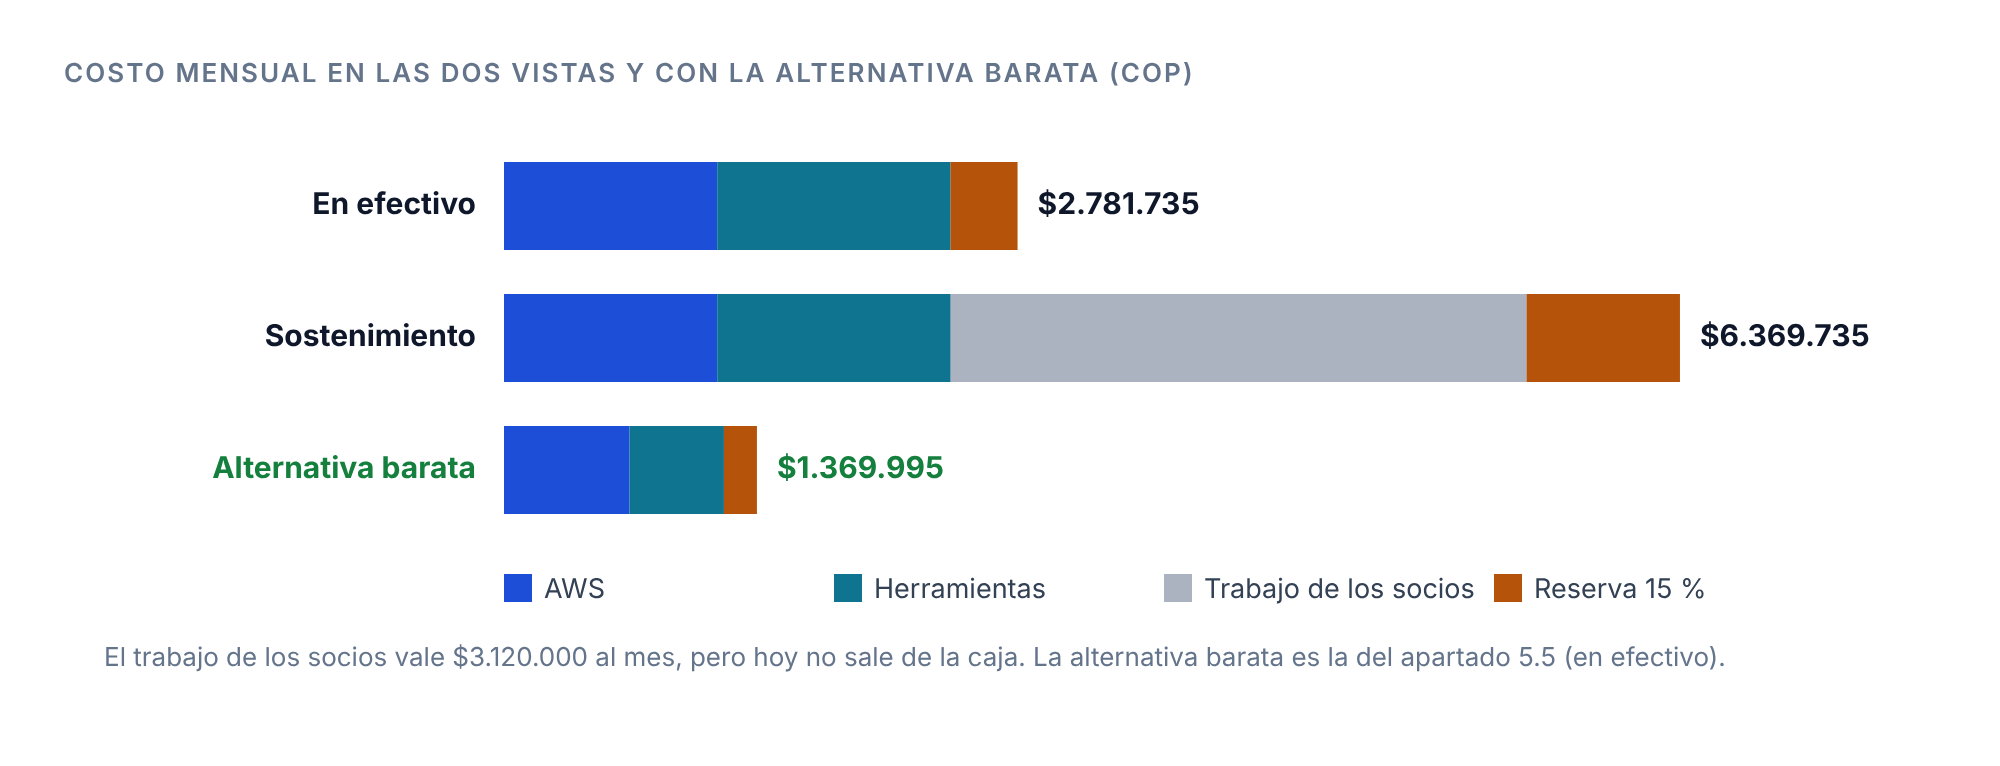
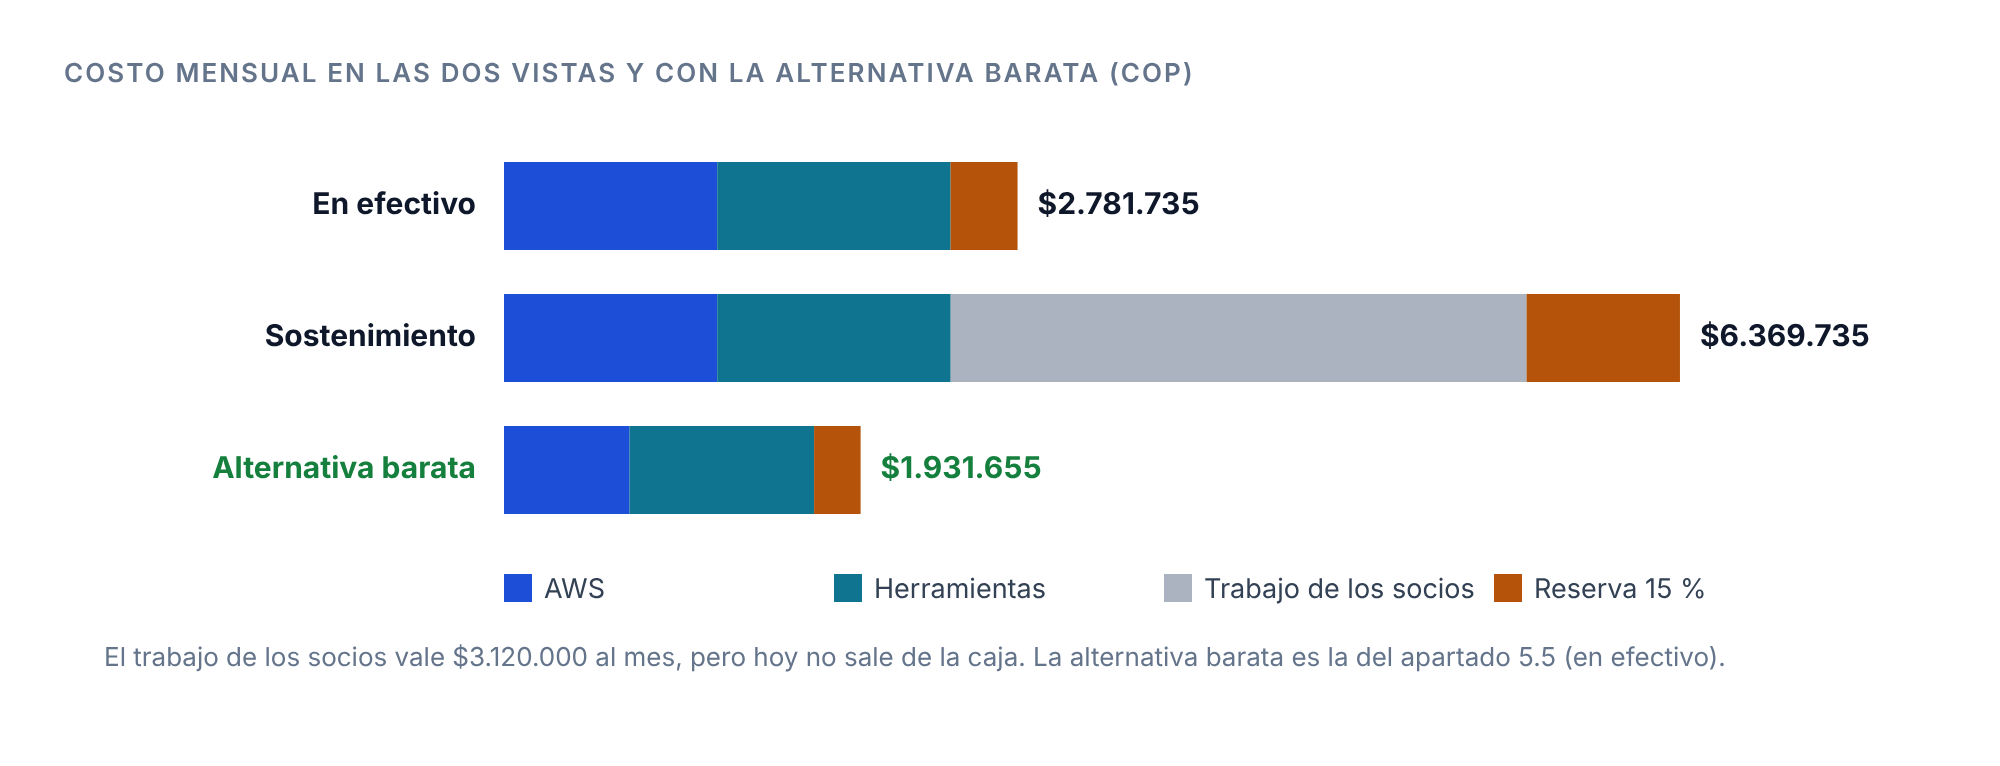
Roadmap: Figma Enterprise se mantiene; alternativa barata a $1,9 M; cálculo de WhatsApp por casa
Claude-Session: https://claude.ai/code/session_012DQwrcRYK5fH9TqeLrKqZU

Changed region(s): [[0.341, 0.5405, 0.527, 0.6906]]

diff --git a/eafit/2026-11-roadmap-estrategia/entrega/figuras/fuente-figuras.html b/eafit/2026-11-roadmap-estrategia/entrega/figuras/fuente-figuras.html
@@ -325,7 +325,7 @@ tx(s,0,310,'La forma de cobrar el margen depende del contrato con la pasarela (i
 
 // 14 costo mensual
 (()=>{const s=document.getElementById('sv14');const L=220,W=600,max=6.5e6;const parts=[['AWS',C.ac],['Herramientas',C.ac2],['Trabajo de los socios',C.mut],['Reserva 15 %',C.wa]];
-const rows=[['En efectivo',[1155000,1263900,0,362835],2781735],['Sostenimiento',[1155000,1263900,3120000,830835],6369735],['Alternativa barata',[679800,511500,0,178695],1369995]];
+const rows=[['En efectivo',[1155000,1263900,0,362835],2781735],['Sostenimiento',[1155000,1263900,3120000,830835],6369735],['Alternativa barata',[679800,999900,0,251955],1931655]];
 rows.forEach((r,i)=>{const y=20+i*66;tx(s,L-14,y+22,r[0],{a:'end',b:'middle',fw:700,fill:i==2?C.ok:C.ink});let x=L;r[1].forEach((v,j)=>{const w=v/max*W;if(w>0){el(s,'rect',{x,y,width:w,height:44,fill:parts[j][1],opacity:j==2?.55:1});}x+=w});tx(s,x+10,y+22,'$'+fmt(r[2]),{b:'middle',fw:700,fill:i==2?C.ok:C.ink})});
 parts.forEach((p,j)=>{const x=L+j*165;el(s,'rect',{x,y:226,width:14,height:14,fill:p[1],opacity:j==2?.55:1});tx(s,x+20,238,p[0],{fs:13.5})});
 tx(s,20,272,'El trabajo de los socios vale $3.120.000 al mes, pero hoy no sale de la caja. La alternativa barata es la del apartado 5.5 (en efectivo).',{fs:13,fill:C.mut});})();

diff --git a/eafit/2026-11-roadmap-estrategia/entrega/KINO_Roadmap-estrategia-presupuesto.md b/eafit/2026-11-roadmap-estrategia/entrega/KINO_Roadmap-estrategia-presupuesto.md
@@ -20,7 +20,7 @@ KINO es una plataforma de control de acceso para conjuntos cerrados. Hoy opera e
 | ¿Cómo cobramos? | Pago fijo por conjunto + cobro por casa construida + implementación única + comisión por cada pago de la cuota en la app, desde el primer conjunto |
 | ¿Cuándo está lista la app? | En diciembre de 2026, completa y con pagos. En enero de 2027, el 80 % de las casas de Villas y Refugio la usa |
 | ¿Cuánto cobramos? | $1.200.000 al mes por conjunto + $10.000 por casa + $2.000 por pago: entre el 2,2 % y el 4,5 % de la cuota de administración |
-| ¿Cuánto cuesta y cuándo se sostiene? | $2,8 millones al mes en efectivo ($1,4 millones con la alternativa más barata). Villas, Refugio y Sagrada lo cubren desde febrero de 2027. Escenario base a diciembre de 2027: +$210 millones en efectivo |
+| ¿Cuánto cuesta y cuándo se sostiene? | $2,8 millones al mes en efectivo ($1,9 millones con la alternativa más barata). Villas, Refugio y Sagrada lo cubren desde febrero de 2027. Escenario base a diciembre de 2027: +$210 millones en efectivo |
 
 ![Figura 1. Mapa del documento. Cada capítulo responde una pregunta.](figuras/f01.png){width=100%}
 
@@ -322,7 +322,7 @@ Fechas fijadas por el equipo el 9 de noviembre de 2026 [9]. La fecha de H4 es un
 
 # 5. Presupuesto
 
-> **En una frase.** KINO cuesta $2,8 millones al mes en efectivo. Villas, Refugio y Sagrada cubren ese costo desde febrero de 2027. Con los 5 conjuntos nuevos, el escenario base cierra diciembre de 2027 con +$210 millones en efectivo. Una alternativa más barata baja el costo a $1,4 millones al mes.
+> **En una frase.** KINO cuesta $2,8 millones al mes en efectivo. Villas, Refugio y Sagrada cubren ese costo desde febrero de 2027. Con los 5 conjuntos nuevos, el escenario base cierra diciembre de 2027 con +$210 millones en efectivo. Una alternativa más barata baja el costo a $1,9 millones al mes.
 
 Horizonte: noviembre de 2026 a diciembre de 2027 (14 meses). Fuente de dinero: capital propio de los socios [9].
 
@@ -383,7 +383,7 @@ Fuente: [8]. Incluye producción y pruebas. El costo de AWS con 8 conjuntos no e
 
 **Figma Enterprise** se paga por año: USD 2.160 de una vez, unos $7,1 millones. La tabla lo muestra como cuota mensual.
 
-**WhatsApp (inferido).** 1.570 casas × 2 ingresos a la app al mes = 3.140 mensajes. A USD 0,001 por mensaje, son unos USD 3 al mes. El residente comparte el KEY desde su propio WhatsApp; ese envío no le cuesta a KINO.
+**WhatsApp (inferido).** 1.570 casas × 2 ingresos a la app al mes = 3.140 mensajes. A USD 0,001 por mensaje de autenticación (Colombia), son unos USD 3 al mes [18]. Por casa: 2 mensajes × USD 0,001 × $3.300 = $6,6 al mes. El residente comparte el KEY desde su propio WhatsApp; ese envío no le cuesta a KINO.
 
 **El trabajo es una estimación.** Las horas y las tarifas del soporte, el mantenimiento y la coordinación son costos supuestos, no salarios ni contratos [8]. Pueden variar con la operación real.
 
@@ -418,22 +418,22 @@ KINO no asume la tarifa de la pasarela: la paga el conjunto o el residente. Para
 
 ## 5.5 Alternativa más barata
 
-Cinco cambios bajan el costo en efectivo a la mitad sin quitarle al proyecto nada que use hoy (inferido). Precios de pago anual [14] [15].
+Cuatro cambios bajan el costo en efectivo un 31 % (inferido). Precios de pago anual [14]. Figma Enterprise se mantiene: el equipo lo necesita [9].
 
 | Rubro | Hoy (USD al mes) | Alternativa (USD al mes) | Qué se pierde |
 |---|---|---|---|
 | Claude Team | 150, pago mensual | 120, pago anual (100 + 20) | Compromiso de 12 meses |
-| Figma | 180, Enterprise, 2 puestos Full | 32, Professional, 2 puestos Full (16 cada uno) | Inicio de sesión único, administración avanzada y las variables de diseño por la API. El equipo eligió Enterprise para conectar Figma con el repositorio por la API [9]: este cambio pierde esa conexión |
+| Figma Enterprise | 180 | 180: se mantiene | Nada |
 | Grok | 30 | 0: Nicolás trabaja con su puesto de Claude Team | El flujo de Nicolás con Grok. Lo decide Nicolás |
 | Soporte extendido de MySQL en AWS | 144 | 0: actualizar la base de datos a una versión con soporte estándar | Una migración con pruebas, a cargo de Alejandro |
 | Hospedaje de la página web | 20 | 0: plan gratuito para sitios estáticos (inferido: confirmar que la página es estática) | Nada, si la página es estática |
-| **Total con AWS y WhatsApp** | **733** | **361** | |
+| **Total con AWS y WhatsApp** | **733** | **509** | |
 
 | Vista | Hoy | Alternativa | Ahorro al mes | Ahorro en 14 meses |
 |---|---|---|---|---|
-| En efectivo, con reserva | 2.781.735 | 1.369.995 | 1.411.740 (51 %) | 19.764.360 |
+| En efectivo, con reserva | 2.781.735 | 1.931.655 | 850.080 (31 %) | 11.901.120 |
 
-**Recomendación.** Aplicar los cambios de hospedaje, MySQL y pago anual de Claude: no quitan nada que el equipo use. Los de Grok y Figma tienen un costo de uso. El de Grok depende de Nicolás; sin ese cambio, el costo en efectivo queda en $1.483.845 al mes. El de Figma quita la conexión con el repositorio; sin ese cambio, el ahorro baja de USD 372 a USD 224 al mes.
+**Recomendación.** Aplicar los cambios de hospedaje, MySQL y pago anual de Claude: no quitan nada que el equipo use. El de Grok depende de Nicolás; sin ese cambio, el costo en efectivo queda en $2.045.505 al mes.
 
 ## 5.6 Costo total a diciembre de 2027
 
@@ -441,7 +441,7 @@ Cinco cambios bajan el costo en efectivo a la mitad sin quitarle al proyecto nad
 |---|---|---|---|---|
 | En efectivo | 38.944.290 | 1.200.000 | 0 | **40.144.290** |
 | Sostenimiento, escenario base | 89.176.290 | 1.200.000 | 7 × 3.100.000 (estimación) | **112.076.290** |
-| En efectivo, con la alternativa | 19.179.930 | 1.200.000 | 0 | **20.379.930** |
+| En efectivo, con la alternativa | 27.043.170 | 1.200.000 | 0 | **28.243.170** |
 
 ## 5.7 Ingresos
 
@@ -476,7 +476,7 @@ Los tres escenarios incluyen a Villas, Refugio y Sagrada desde febrero de 2027 y
 
 El porcentaje es el margen: resultado ÷ ingresos.
 
-Sin impuestos. Con la alternativa más barata, el escenario base sube a +$229,6 millones en efectivo.
+Sin impuestos. Con la alternativa más barata, el escenario base sube a +$221,7 millones en efectivo.
 
 **Cuánto capital ponen los socios.** La figura 19 muestra el acumulado del escenario base mes a mes. La caja toca su punto más bajo en noviembre de 2026: −$4,0 millones, que pagan los socios con capital propio. Las implementaciones de Refugio en diciembre y de Sagrada en enero la sostienen, y desde febrero de 2027 la caja queda en positivo. El sostenimiento llega a −$20,1 millones en enero y queda en positivo desde mayo de 2027.
 
@@ -506,7 +506,7 @@ El porcentaje es el margen del mes: lo que queda ÷ ingreso.
 
 **Lectura (inferido).**
 
-1. Villas sola no cubre la caja con las herramientas actuales ($2,3 millones frente a $2,8 millones). Con la alternativa más barata ($1,4 millones), sí.
+1. Villas sola no cubre la caja con las herramientas actuales ($2,3 millones frente a $2,8 millones). Con la alternativa más barata ($1,9 millones), sí.
 2. Villas y Refugio juntos cubren el sostenimiento completo desde febrero de 2027; Sagrada suma un margen de $2 millones al mes. Por eso la penetración de enero (apartado 2.4) es la tarea con más efecto en el presupuesto.
 3. La comisión de pagos suma $13,3 millones en el escenario base, el 5 % del ingreso. Crece con cada casa que paga en la app: con el 80 % de pagos, llega a $22,8 millones (escenario optimista). Además, lleva al residente a la app cada mes.
 4. El riesgo mayor es la capacidad: implementar 5 conjuntos entre abril y agosto pide el doble de horas de hoy.
@@ -555,7 +555,7 @@ Además, cada conjunto aporta $1.200.000 al mes de pago fijo, sin costo variable
 | Villas + Refugio + Sagrada | 570 | 17.316 | 4.880 / 11.175 | 12.429 (71,8 %) | 6.134 (35,4 %) |
 | Los tres + 5 nuevos (dic 2027) | 1.570 | 17.115 | 1.772 / 4.057 | 15.336 (89,6 %) | 13.051 (76,3 %) |
 
-Con la alternativa más barata, el costo fijo en efectivo por casa baja a $2.404 con 570 casas (margen 86,1 %) y a $873 con 1.570 casas (margen 94,9 %).
+Con la alternativa más barata, el costo fijo en efectivo por casa baja a $3.389 con 570 casas (margen 80,4 %) y a $1.230 con 1.570 casas (margen 92,8 %).
 
 **Lectura (inferido).**
 
